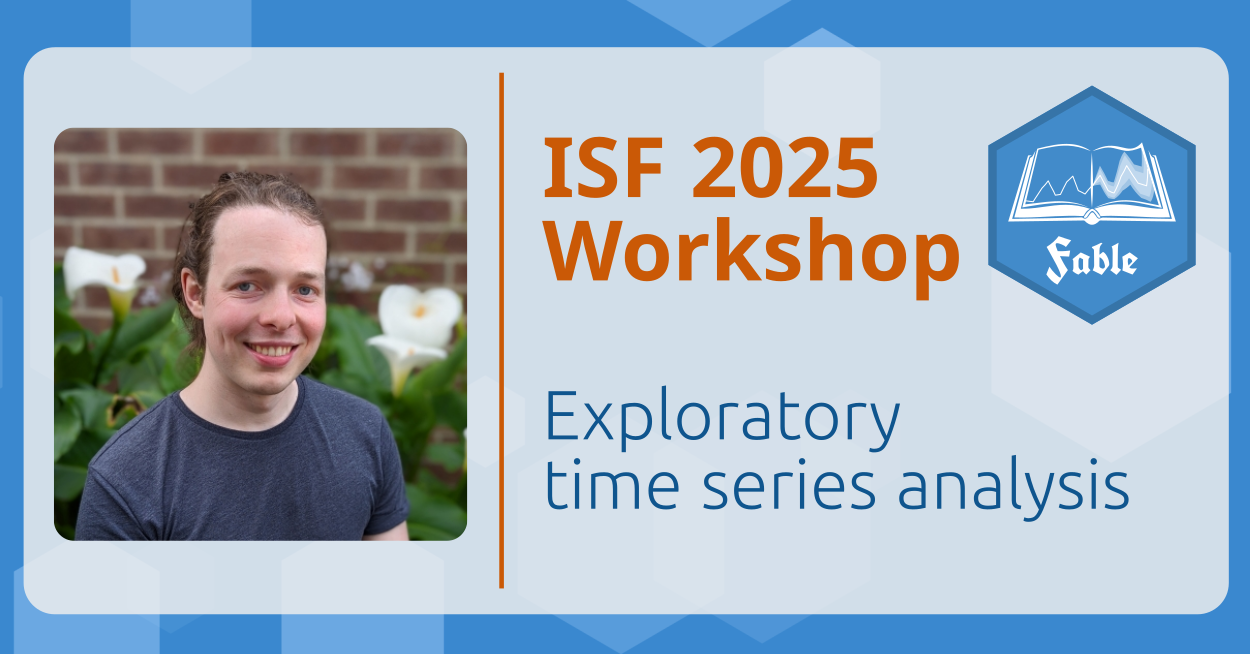
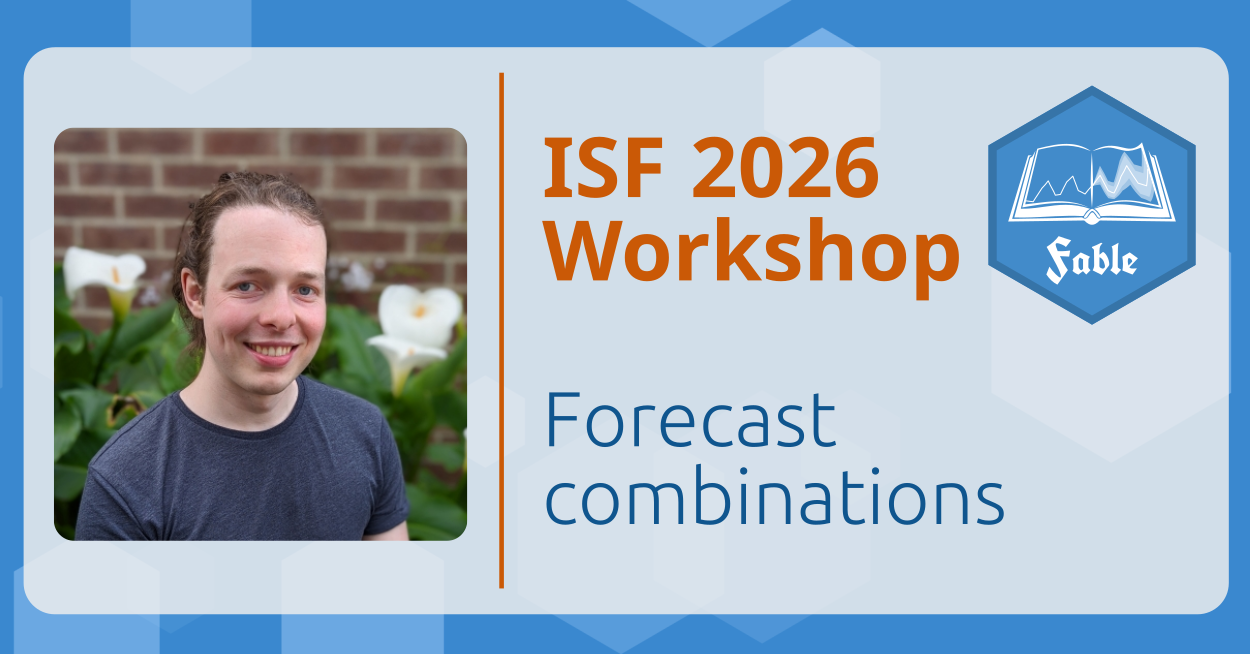
Built site for gh-pages

Changed region(s): [[0.4368, 0.581, 0.9048, 0.8257], [0.6552, 0.2141, 0.7176, 0.3058]]

diff --git a/index.html b/index.html
@@ -7,7 +7,7 @@
 <meta name="viewport" content="width=device-width, initial-scale=1.0, user-scalable=yes">
 
 
-<title>Forecast combinations – Exploratory time series analysis</title>
+<title>Forecast combinations</title>
 <style>
 code{white-space: pre-wrap;}
 span.smallcaps{font-variant: small-caps;}
@@ -104,9 +104,9 @@ pre > code.sourceCode > span > a:first-child::before { text-decoration: underlin
 }</script>
 
 
-<meta name="twitter:title" content="Forecast combinations – Exploratory time series analysis">
-<meta name="twitter:description" content="Homepage for the exploratory time series analysis workshop at ISF 2025">
-<meta name="twitter:image" content="https://workshop.nectric.com.au/isf2025/images/fable.svg">
+<meta name="twitter:title" content="Forecast combinations">
+<meta name="twitter:description" content="Homepage for the forecast combinations workshop at ISF 2026">
+<meta name="twitter:image" content="https://workshop.nectric.com.au/isf2026/images/fable.svg">
 <meta name="twitter:creator" content="@mitchoharawild">
 <meta name="twitter:image:alt" content="Fable Hex Logo">
 <meta name="twitter:card" content="summary_large_image">
@@ -120,7 +120,7 @@ pre > code.sourceCode > span > a:first-child::before { text-decoration: underlin
       <div class="navbar-container container-fluid">
       <div class="navbar-brand-container mx-auto">
     <a class="navbar-brand" href="./index.html">
-    <span class="navbar-title">Exploratory time series analysis</span>
+    <span class="navbar-title">Forecast combinations</span>
     </a>
   </div>
             <div id="quarto-search" class="" title="Search"></div>
@@ -135,23 +135,15 @@ pre > code.sourceCode > span > a:first-child::before { text-decoration: underlin
     </a>
     <ul class="dropdown-menu" aria-labelledby="nav-menu-slides">    
         <li>
-    <a class="dropdown-item" href="./slides/patterns/">
- <span class="dropdown-text">Time series data and patterns</span></a>
+    <a class="dropdown-item" href="./slides/decomposition/">
+ <span class="dropdown-text">Decomposition forecasting</span></a>
   </li>  
         <li>
-    <a class="dropdown-item" href="./slides/seasons/">
- <span class="dropdown-text">Seasonality and calendrical patterns</span></a>
+    <a class="dropdown-item" href="./slides/combination/">
+ <span class="dropdown-text">Ensembles and reconciliation</span></a>
   </li>  
     </ul>
   </li>
-  <li class="nav-item">
-    <a class="nav-link" href="https://feedback.nectric.com.au/w0rw"> 
-<span class="menu-text">Feedback</span></a>
-  </li>  
-  <li class="nav-item">
-    <a class="nav-link" href="./exercises.html"> 
-<span class="menu-text">Exercises</span></a>
-  </li>  
 </ul>
             <ul class="navbar-nav navbar-nav-scroll ms-auto">
   <li class="nav-item dropdown ">
@@ -162,7 +154,7 @@ pre > code.sourceCode > span > a:first-child::before { text-decoration: underlin
     </a>
     <ul class="dropdown-menu dropdown-menu-end" aria-labelledby="nav-menu-downloads">    
         <li>
-    <a class="dropdown-item" href="https://github.com/mitchelloharawild/workshop-etsa-isf2025/archive/refs/heads/main.zip">
+    <a class="dropdown-item" href="https://github.com/mitchelloharawild/workshop-isf2026/archive/refs/heads/main.zip">
  <span class="dropdown-text">Everything</span></a>
   </li>  
         <li>
@@ -177,7 +169,7 @@ pre > code.sourceCode > span > a:first-child::before { text-decoration: underlin
 <span class="menu-text">License</span></a>
   </li>  
   <li class="nav-item compact">
-    <a class="nav-link" href="https://github.com/mitchelloharawild/workshop-etsa-isf2025"> <i class="bi bi-github" role="img">
+    <a class="nav-link" href="https://github.com/mitchelloharawild/workshop-isf2026"> <i class="bi bi-github" role="img">
 </i> 
 <span class="menu-text"></span></a>
   </li>  
@@ -209,7 +201,7 @@ pre > code.sourceCode > span > a:first-child::before { text-decoration: underlin
   <li><a href="#required-software" id="toc-required-software" class="nav-link" data-scroll-target="#required-software">Required software</a></li>
   </ul></li>
   </ul>
-<div class="toc-actions"><ul><li><a href="https://github.com/mitchelloharawild/workshop-etsa-isf2025/edit/main/index.qmd" class="toc-action"><i class="bi bi-github"></i>Edit this page</a></li><li><a href="https://github.com/mitchelloharawild/workshop-etsa-isf2025/issues/new" class="toc-action"><i class="bi empty"></i>Report an issue</a></li></ul></div></nav>
+<div class="toc-actions"><ul><li><a href="https://github.com/mitchelloharawild/workshop-isf2026/edit/main/index.qmd" class="toc-action"><i class="bi bi-github"></i>Edit this page</a></li><li><a href="https://github.com/mitchelloharawild/workshop-isf2026/issues/new" class="toc-action"><i class="bi empty"></i>Report an issue</a></li></ul></div></nav>
     </div>
 <!-- main -->
 <main class="content" id="quarto-document-content">
@@ -366,7 +358,7 @@ pre > code.sourceCode > span > a:first-child::before { text-decoration: underlin
     }
       var localhostRegex = new RegExp(/^(?:http|https):\/\/localhost\:?[0-9]*\//);
       var mailtoRegex = new RegExp(/^mailto:/);
-        var filterRegex = new RegExp("https:\/\/workshop\.nectric\.com\.au\/isf2025");
+        var filterRegex = new RegExp("https:\/\/workshop\.nectric\.com\.au\/isf2026");
       var isInternal = (href) => {
           return filterRegex.test(href) || localhostRegex.test(href) || mailtoRegex.test(href);
       }
@@ -701,9 +693,9 @@ pre > code.sourceCode > span > a:first-child::before { text-decoration: underlin
 </div>   
     <div class="nav-footer-center">
       &nbsp;
-    <div class="toc-actions d-sm-block d-md-none"><ul><li><a href="https://github.com/mitchelloharawild/workshop-etsa-isf2025/edit/main/index.qmd" class="toc-action"><i class="bi bi-github"></i>Edit this page</a></li><li><a href="https://github.com/mitchelloharawild/workshop-etsa-isf2025/issues/new" class="toc-action"><i class="bi empty"></i>Report an issue</a></li></ul></div></div>
+    <div class="toc-actions d-sm-block d-md-none"><ul><li><a href="https://github.com/mitchelloharawild/workshop-isf2026/edit/main/index.qmd" class="toc-action"><i class="bi bi-github"></i>Edit this page</a></li><li><a href="https://github.com/mitchelloharawild/workshop-isf2026/issues/new" class="toc-action"><i class="bi empty"></i>Report an issue</a></li></ul></div></div>
     <div class="nav-footer-right">
-<p>© Copyright 2024, Mitchell O’Hara-Wild</p>
+<p>© Copyright 2026, Mitchell O’Hara-Wild</p>
 </div>
   </div>
 </footer>

diff --git a/exercises.html b/exercises.html
@@ -7,7 +7,7 @@
 <meta name="viewport" content="width=device-width, initial-scale=1.0, user-scalable=yes">
 
 
-<title>Exercises – Exploratory time series analysis</title>
+<title>Exercises – Forecast combinations</title>
 <style>
 code{white-space: pre-wrap;}
 span.smallcaps{font-variant: small-caps;}
@@ -69,8 +69,8 @@ ul.task-list li input[type="checkbox"] {
 }</script>
 
 
-<meta name="twitter:title" content="Exercises – Exploratory time series analysis">
-<meta name="twitter:image" content="https://workshop.nectric.com.au/isf2025/images/opengraph.png">
+<meta name="twitter:title" content="Exercises – Forecast combinations">
+<meta name="twitter:image" content="https://workshop.nectric.com.au/isf2026/images/opengraph.png">
 <meta name="twitter:creator" content="@mitchoharawild">
 <meta name="twitter:image-height" content="654">
 <meta name="twitter:image-width" content="1250">
@@ -85,7 +85,7 @@ ul.task-list li input[type="checkbox"] {
       <div class="navbar-container container-fluid">
       <div class="navbar-brand-container mx-auto">
     <a class="navbar-brand" href="./index.html">
-    <span class="navbar-title">Exploratory time series analysis</span>
+    <span class="navbar-title">Forecast combinations</span>
     </a>
   </div>
             <div id="quarto-search" class="" title="Search"></div>
@@ -100,23 +100,15 @@ ul.task-list li input[type="checkbox"] {
     </a>
     <ul class="dropdown-menu" aria-labelledby="nav-menu-slides">    
         <li>
-    <a class="dropdown-item" href="./slides/patterns/">
- <span class="dropdown-text">Time series data and patterns</span></a>
+    <a class="dropdown-item" href="./slides/decomposition/">
+ <span class="dropdown-text">Decomposition forecasting</span></a>
   </li>  
         <li>
-    <a class="dropdown-item" href="./slides/seasons/">
- <span class="dropdown-text">Seasonality and calendrical patterns</span></a>
+    <a class="dropdown-item" href="./slides/combination/">
+ <span class="dropdown-text">Ensembles and reconciliation</span></a>
   </li>  
     </ul>
   </li>
-  <li class="nav-item">
-    <a class="nav-link" href="https://feedback.nectric.com.au/w0rw"> 
-<span class="menu-text">Feedback</span></a>
-  </li>  
-  <li class="nav-item">
-    <a class="nav-link active" href="./exercises.html" aria-current="page"> 
-<span class="menu-text">Exercises</span></a>
-  </li>  
 </ul>
             <ul class="navbar-nav navbar-nav-scroll ms-auto">
   <li class="nav-item dropdown ">
@@ -127,7 +119,7 @@ ul.task-list li input[type="checkbox"] {
     </a>
     <ul class="dropdown-menu dropdown-menu-end" aria-labelledby="nav-menu-downloads">    
         <li>
-    <a class="dropdown-item" href="https://github.com/mitchelloharawild/workshop-etsa-isf2025/archive/refs/heads/main.zip">
+    <a class="dropdown-item" href="https://github.com/mitchelloharawild/workshop-isf2026/archive/refs/heads/main.zip">
  <span class="dropdown-text">Everything</span></a>
   </li>  
         <li>
@@ -142,7 +134,7 @@ ul.task-list li input[type="checkbox"] {
 <span class="menu-text">License</span></a>
   </li>  
   <li class="nav-item compact">
-    <a class="nav-link" href="https://github.com/mitchelloharawild/workshop-etsa-isf2025"> <i class="bi bi-github" role="img">
+    <a class="nav-link" href="https://github.com/mitchelloharawild/workshop-isf2026"> <i class="bi bi-github" role="img">
 </i> 
 <span class="menu-text"></span></a>
   </li>  
@@ -167,7 +159,7 @@ ul.task-list li input[type="checkbox"] {
   <li><a href="#exercise-1" id="toc-exercise-1" class="nav-link" data-scroll-target="#exercise-1">Exercise 1</a></li>
   </ul></li>
   </ul>
-<div class="toc-actions"><ul><li><a href="https://github.com/mitchelloharawild/workshop-etsa-isf2025/edit/main/exercises.qmd" class="toc-action"><i class="bi bi-github"></i>Edit this page</a></li><li><a href="https://github.com/mitchelloharawild/workshop-etsa-isf2025/issues/new" class="toc-action"><i class="bi empty"></i>Report an issue</a></li></ul></div></nav>
+<div class="toc-actions"><ul><li><a href="https://github.com/mitchelloharawild/workshop-isf2026/edit/main/exercises.qmd" class="toc-action"><i class="bi bi-github"></i>Edit this page</a></li><li><a href="https://github.com/mitchelloharawild/workshop-isf2026/issues/new" class="toc-action"><i class="bi empty"></i>Report an issue</a></li></ul></div></nav>
     </div>
 <!-- main -->
 <main class="content" id="quarto-document-content">
@@ -535,7 +527,7 @@ Hint
     }
       var localhostRegex = new RegExp(/^(?:http|https):\/\/localhost\:?[0-9]*\//);
       var mailtoRegex = new RegExp(/^mailto:/);
-        var filterRegex = new RegExp("https:\/\/workshop\.nectric\.com\.au\/isf2025");
+        var filterRegex = new RegExp("https:\/\/workshop\.nectric\.com\.au\/isf2026");
       var isInternal = (href) => {
           return filterRegex.test(href) || localhostRegex.test(href) || mailtoRegex.test(href);
       }
@@ -870,9 +862,9 @@ Hint
 </div>   
     <div class="nav-footer-center">
       &nbsp;
-    <div class="toc-actions d-sm-block d-md-none"><ul><li><a href="https://github.com/mitchelloharawild/workshop-etsa-isf2025/edit/main/exercises.qmd" class="toc-action"><i class="bi bi-github"></i>Edit this page</a></li><li><a href="https://github.com/mitchelloharawild/workshop-etsa-isf2025/issues/new" class="toc-action"><i class="bi empty"></i>Report an issue</a></li></ul></div></div>
+    <div class="toc-actions d-sm-block d-md-none"><ul><li><a href="https://github.com/mitchelloharawild/workshop-isf2026/edit/main/exercises.qmd" class="toc-action"><i class="bi bi-github"></i>Edit this page</a></li><li><a href="https://github.com/mitchelloharawild/workshop-isf2026/issues/new" class="toc-action"><i class="bi empty"></i>Report an issue</a></li></ul></div></div>
     <div class="nav-footer-right">
-<p>© Copyright 2024, Mitchell O’Hara-Wild</p>
+<p>© Copyright 2026, Mitchell O’Hara-Wild</p>
 </div>
   </div>
 </footer>

diff --git a/license.html b/license.html
@@ -7,7 +7,7 @@
 <meta name="viewport" content="width=device-width, initial-scale=1.0, user-scalable=yes">
 
 
-<title>License – Exploratory time series analysis</title>
+<title>License – Forecast combinations</title>
 <style>
 code{white-space: pre-wrap;}
 span.smallcaps{font-variant: small-caps;}
@@ -69,9 +69,9 @@ ul.task-list li input[type="checkbox"] {
 }</script>
 
 
-<meta name="twitter:title" content="License – Exploratory time series analysis">
-<meta name="twitter:description" content="Homepage for the exploratory time series analysis workshop at ISF 2025">
-<meta name="twitter:image" content="https://workshop.nectric.com.au/isf2025/images/opengraph.png">
+<meta name="twitter:title" content="License – Forecast combinations">
+<meta name="twitter:description" content="Homepage for the forecast combinations workshop at ISF 2026">
+<meta name="twitter:image" content="https://workshop.nectric.com.au/isf2026/images/opengraph.png">
 <meta name="twitter:creator" content="@mitchoharawild">
 <meta name="twitter:image-height" content="654">
 <meta name="twitter:image-width" content="1250">
@@ -86,7 +86,7 @@ ul.task-list li input[type="checkbox"] {
       <div class="navbar-container container-fluid">
       <div class="navbar-brand-container mx-auto">
     <a class="navbar-brand" href="./index.html">
-    <span class="navbar-title">Exploratory time series analysis</span>
+    <span class="navbar-title">Forecast combinations</span>
     </a>
   </div>
             <div id="quarto-search" class="" title="Search"></div>
@@ -101,23 +101,15 @@ ul.task-list li input[type="checkbox"] {
     </a>
     <ul class="dropdown-menu" aria-labelledby="nav-menu-slides">    
         <li>
-    <a class="dropdown-item" href="./slides/patterns/">
- <span class="dropdown-text">Time series data and patterns</span></a>
+    <a class="dropdown-item" href="./slides/decomposition/">
+ <span class="dropdown-text">Decomposition forecasting</span></a>
   </li>  
         <li>
-    <a class="dropdown-item" href="./slides/seasons/">
- <span class="dropdown-text">Seasonality and calendrical patterns</span></a>
+    <a class="dropdown-item" href="./slides/combination/">
+ <span class="dropdown-text">Ensembles and reconciliation</span></a>
   </li>  
     </ul>
   </li>
-  <li class="nav-item">
-    <a class="nav-link" href="https://feedback.nectric.com.au/w0rw"> 
-<span class="menu-text">Feedback</span></a>
-  </li>  
-  <li class="nav-item">
-    <a class="nav-link" href="./exercises.html"> 
-<span class="menu-text">Exercises</span></a>
-  </li>  
 </ul>
             <ul class="navbar-nav navbar-nav-scroll ms-auto">
   <li class="nav-item dropdown ">
@@ -128,7 +120,7 @@ ul.task-list li input[type="checkbox"] {
     </a>
     <ul class="dropdown-menu dropdown-menu-end" aria-labelledby="nav-menu-downloads">    
         <li>
-    <a class="dropdown-item" href="https://github.com/mitchelloharawild/workshop-etsa-isf2025/archive/refs/heads/main.zip">
+    <a class="dropdown-item" href="https://github.com/mitchelloharawild/workshop-isf2026/archive/refs/heads/main.zip">
  <span class="dropdown-text">Everything</span></a>
   </li>  
         <li>
@@ -143,7 +135,7 @@ ul.task-list li input[type="checkbox"] {
 <span class="menu-text">License</span></a>
   </li>  
   <li class="nav-item compact">
-    <a class="nav-link" href="https://github.com/mitchelloharawild/workshop-etsa-isf2025"> <i class="bi bi-github" role="img">
+    <a class="nav-link" href="https://github.com/mitchelloharawild/workshop-isf2026"> <i class="bi bi-github" role="img">
 </i> 
 <span class="menu-text"></span></a>
   </li>  
@@ -264,7 +256,7 @@ ul.task-list li input[type="checkbox"] {
     }
       var localhostRegex = new RegExp(/^(?:http|https):\/\/localhost\:?[0-9]*\//);
       var mailtoRegex = new RegExp(/^mailto:/);
-        var filterRegex = new RegExp("https:\/\/workshop\.nectric\.com\.au\/isf2025");
+        var filterRegex = new RegExp("https:\/\/workshop\.nectric\.com\.au\/isf2026");
       var isInternal = (href) => {
           return filterRegex.test(href) || localhostRegex.test(href) || mailtoRegex.test(href);
       }
@@ -599,9 +591,9 @@ ul.task-list li input[type="checkbox"] {
 </div>   
     <div class="nav-footer-center">
       &nbsp;
-    <div class="toc-actions"><ul><li><a href="https://github.com/mitchelloharawild/workshop-etsa-isf2025/edit/main/license.qmd" class="toc-action"><i class="bi bi-github"></i>Edit this page</a></li><li><a href="https://github.com/mitchelloharawild/workshop-etsa-isf2025/issues/new" class="toc-action"><i class="bi empty"></i>Report an issue</a></li></ul></div></div>
+    <div class="toc-actions"><ul><li><a href="https://github.com/mitchelloharawild/workshop-isf2026/edit/main/license.qmd" class="toc-action"><i class="bi bi-github"></i>Edit this page</a></li><li><a href="https://github.com/mitchelloharawild/workshop-isf2026/issues/new" class="toc-action"><i class="bi empty"></i>Report an issue</a></li></ul></div></div>
     <div class="nav-footer-right">
-<p>© Copyright 2024, Mitchell O’Hara-Wild</p>
+<p>© Copyright 2026, Mitchell O’Hara-Wild</p>
 </div>
   </div>
 </footer>

diff --git a/slides/combination/index.html b/slides/combination/index.html
@@ -11,7 +11,7 @@
 <link href="../../site_libs/quarto-contrib/custom-callouts-0.1.0/custom-callouts.css" rel="stylesheet"><meta charset="utf-8">
   <meta name="generator" content="quarto-1.7.32">
 
-  <title>Exploratory time series analysis – index</title>
+  <title>Forecast combinations – index</title>
   <meta name="apple-mobile-web-app-capable" content="yes">
   <meta name="apple-mobile-web-app-status-bar-style" content="black-translucent">
   <meta name="viewport" content="width=device-width, initial-scale=1.0, maximum-scale=1.0, user-scalable=no, minimal-ui">
@@ -124,8 +124,8 @@
       margin-right: 0; 
     }
   </style>
-<meta name="twitter:title" content="Exploratory time series analysis">
-<meta name="twitter:image" content="https://workshop.nectric.com.au/isf2025/images/opengraph.png">
+<meta name="twitter:title" content="Forecast combinations">
+<meta name="twitter:image" content="https://workshop.nectric.com.au/isf2026/images/opengraph.png">
 <meta name="twitter:creator" content="@mitchoharawild">
 <meta name="twitter:image-height" content="654">
 <meta name="twitter:image-width" content="1250">
@@ -708,7 +708,7 @@
         }
           var localhostRegex = new RegExp(/^(?:http|https):\/\/localhost\:?[0-9]*\//);
           var mailtoRegex = new RegExp(/^mailto:/);
-            var filterRegex = new RegExp("https:\/\/workshop\.nectric\.com\.au\/isf2025");
+            var filterRegex = new RegExp("https:\/\/workshop\.nectric\.com\.au\/isf2026");
           var isInternal = (href) => {
               return filterRegex.test(href) || localhostRegex.test(href) || mailtoRegex.test(href);
           }

diff --git a/slides/decomposition/index.html b/slides/decomposition/index.html
@@ -11,7 +11,7 @@
 <link href="../../site_libs/quarto-contrib/custom-callouts-0.1.0/custom-callouts.css" rel="stylesheet"><meta charset="utf-8">
   <meta name="generator" content="quarto-1.7.32">
 
-  <title>Exploratory time series analysis – index</title>
+  <title>Forecast combinations – index</title>
   <meta name="apple-mobile-web-app-capable" content="yes">
   <meta name="apple-mobile-web-app-status-bar-style" content="black-translucent">
   <meta name="viewport" content="width=device-width, initial-scale=1.0, maximum-scale=1.0, user-scalable=no, minimal-ui">
@@ -124,8 +124,8 @@
       margin-right: 0; 
     }
   </style>
-<meta name="twitter:title" content="Exploratory time series analysis">
-<meta name="twitter:image" content="https://workshop.nectric.com.au/isf2025/images/opengraph.png">
+<meta name="twitter:title" content="Forecast combinations">
+<meta name="twitter:image" content="https://workshop.nectric.com.au/isf2026/images/opengraph.png">
 <meta name="twitter:creator" content="@mitchoharawild">
 <meta name="twitter:image-height" content="654">
 <meta name="twitter:image-width" content="1250">
@@ -748,7 +748,7 @@
         }
           var localhostRegex = new RegExp(/^(?:http|https):\/\/localhost\:?[0-9]*\//);
           var mailtoRegex = new RegExp(/^mailto:/);
-            var filterRegex = new RegExp("https:\/\/workshop\.nectric\.com\.au\/isf2025");
+            var filterRegex = new RegExp("https:\/\/workshop\.nectric\.com\.au\/isf2026");
           var isInternal = (href) => {
               return filterRegex.test(href) || localhostRegex.test(href) || mailtoRegex.test(href);
           }
